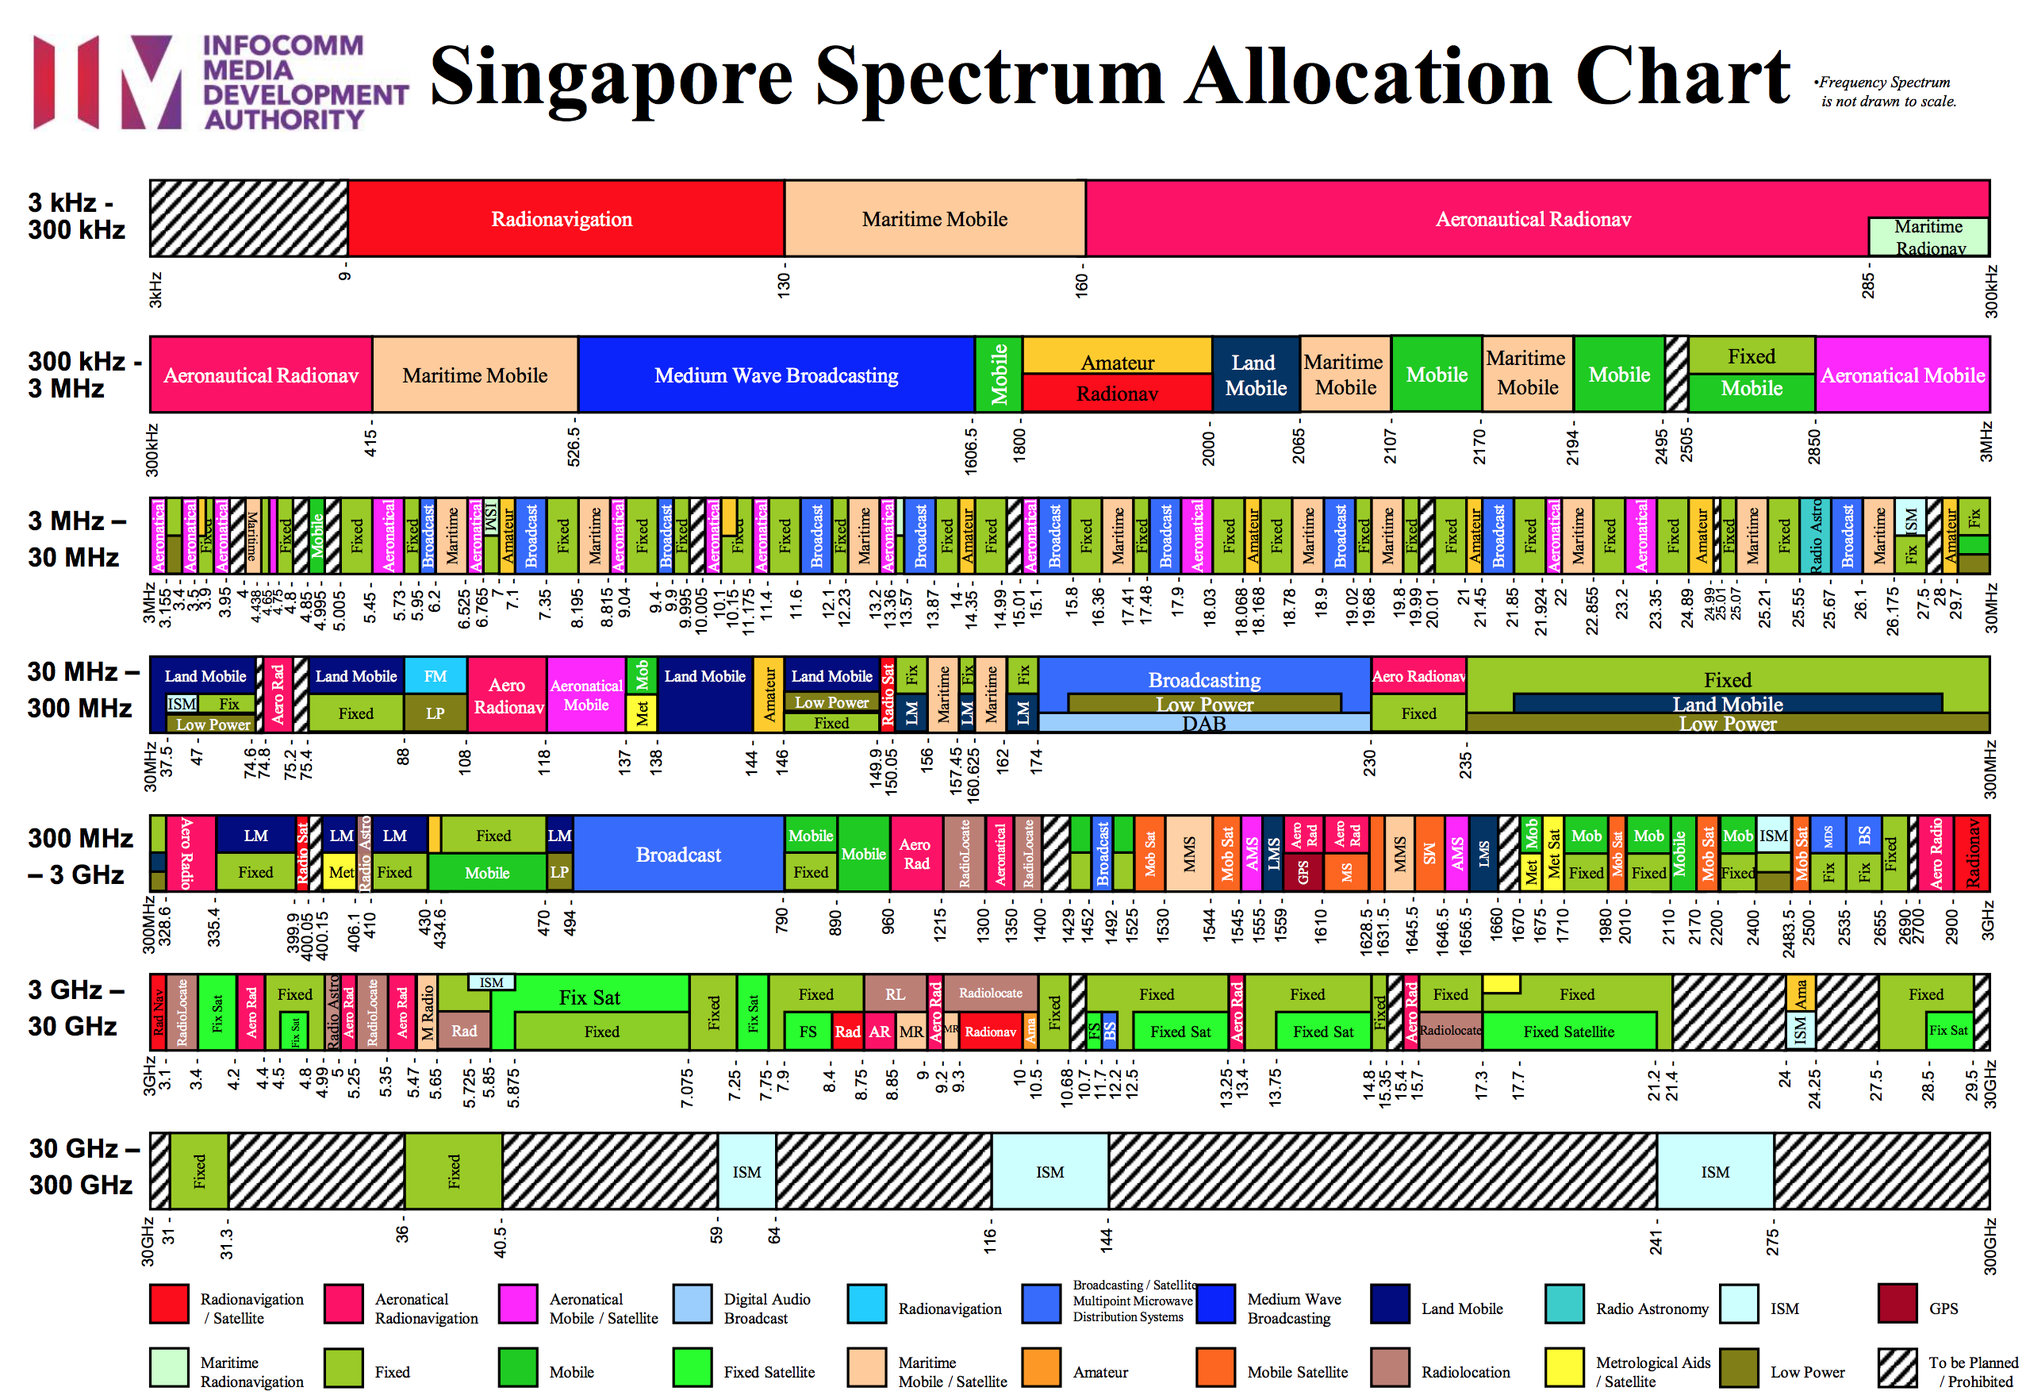
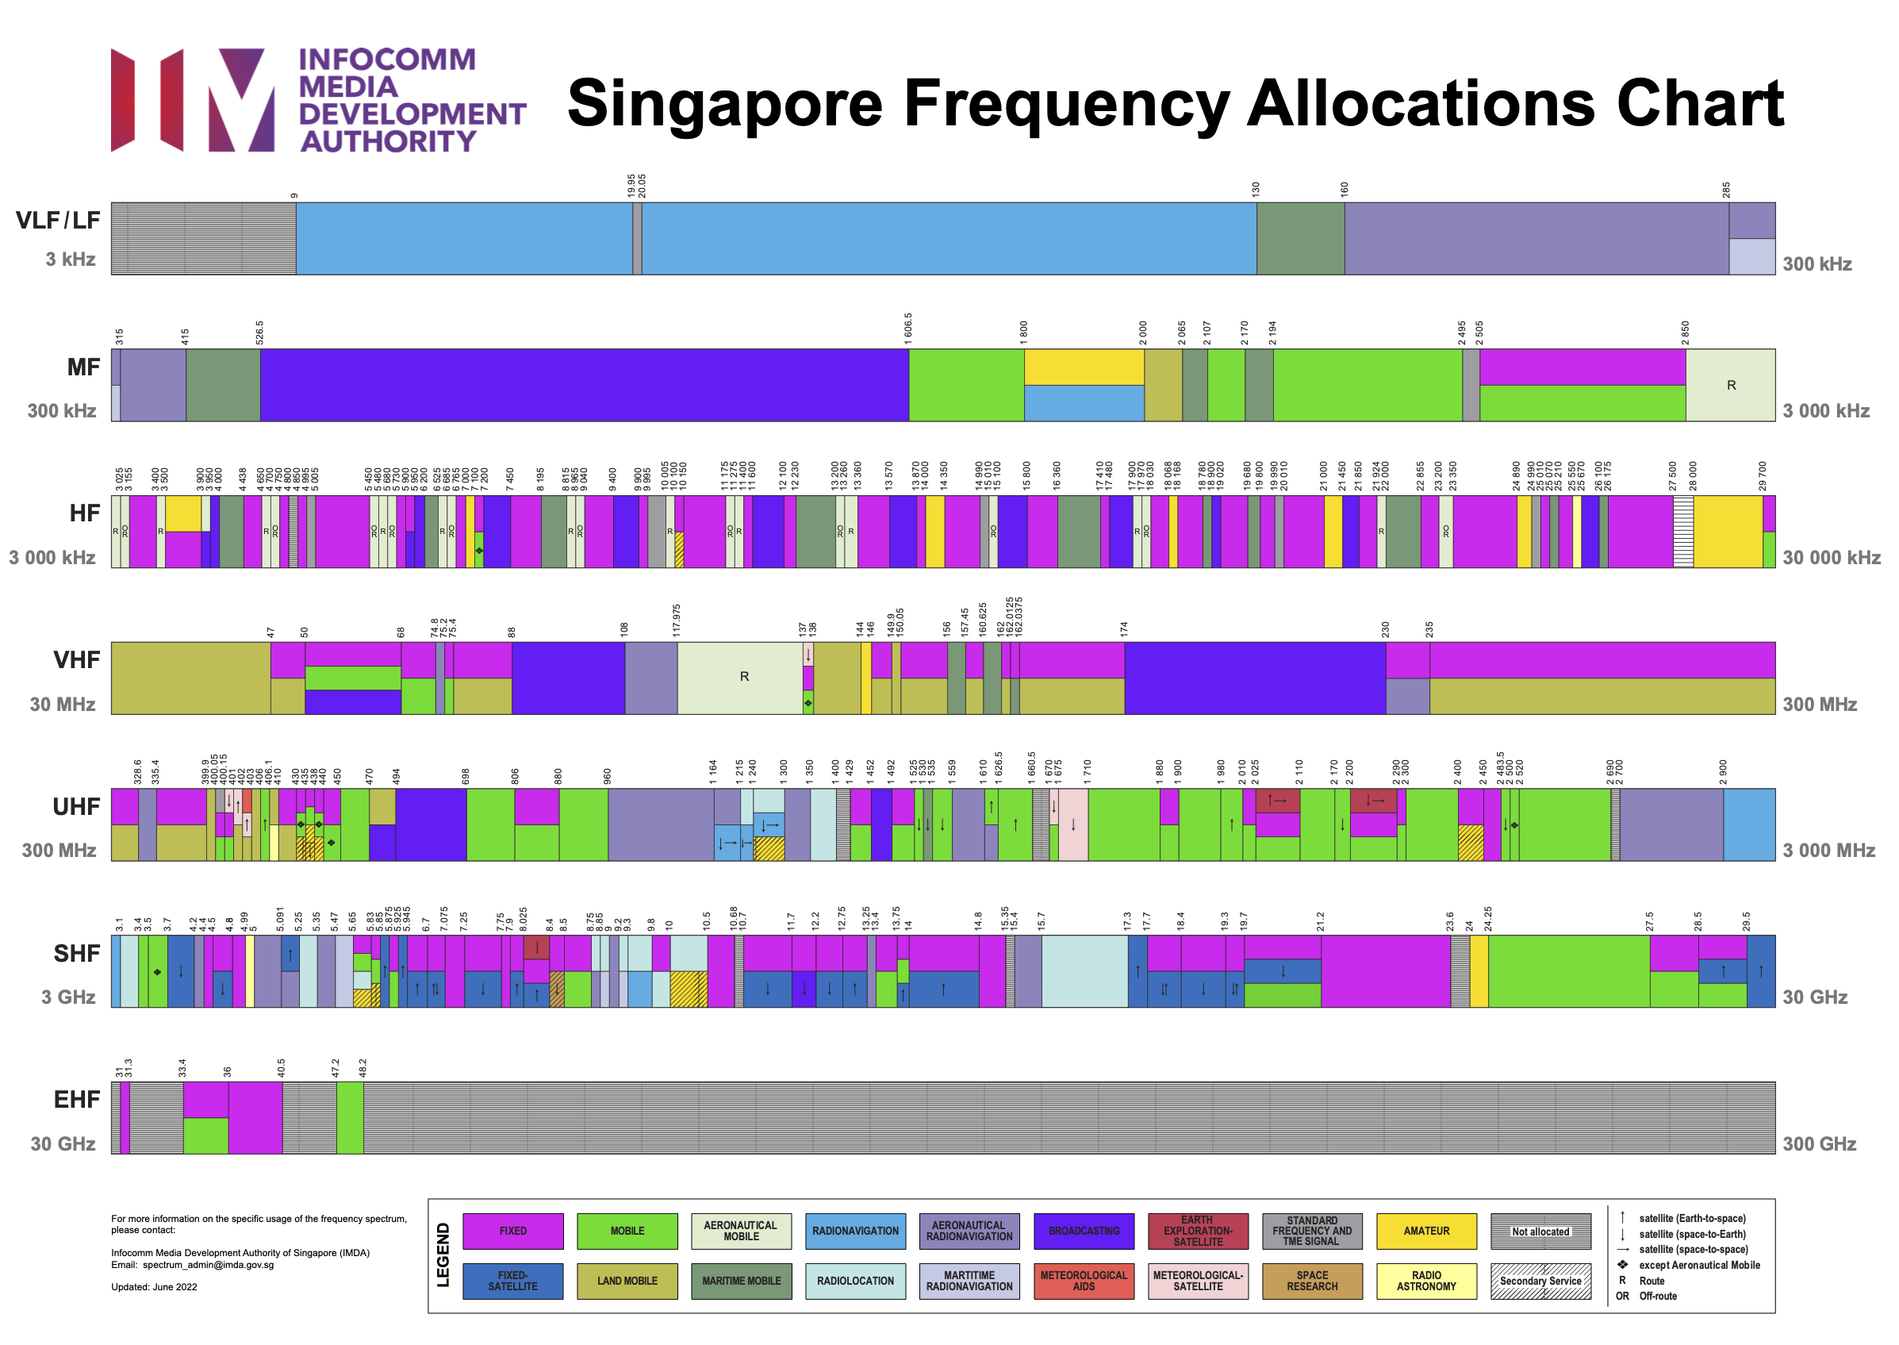
[SingaporeBands] update (#164)
* [SingaporeBands] update

* more updates

diff --git a/Radio/SingaporeBands/README.md b/Radio/SingaporeBands/README.md
@@ -9,9 +9,9 @@ Notes on official band plans for Singapore and my and personal observations on w
 Singapore is relatively progressive when it comes to radio spectrum allocation and use - for example, AM services disappeared by 2000 or so,
 DAB came and went in 2011 (rendered irrelevant by Internet services and continued popularity of FM).
 With the almost universal adoption of mobile and internet technology, the general perception is that shortwave and amateur radio are pretty much a thing of the past.
-Singapore has an [amateur radio association (SARTS)](http://www.sarts.org.sg/) - which I am not a member of (yet).
+Singapore has an [amateur radio association (SARTS)](https://www.sarts.org.sg/) - which I am not a member of (yet).
 
-So as I become more interested in RF, my first question is basic: so is there much activity, and if so, what modes and bands?
+So as I become more interested in RF, my first question is basic: is there much activity, and if so, what modes and bands?
 
 This document is going to be a work-in-progress. It comprises my notes on:
 
@@ -24,7 +24,227 @@ This document is going to be a work-in-progress. It comprises my notes on:
 The IMDA maintains allocations for amateur radio that are roughly in line with [ITU Region 3 guidelines](https://en.wikipedia.org/wiki/Amateur_radio_frequency_allocations#ITU_Region_3).
 Excluded are bands at the low and high end: 2200m, 630m, 23cm.
 
-[![imda_sg_spectrum](./assets/imda_sg_spectrum.png?raw=true)](https://www.imda.gov.sg/regulations-licensing-and-consultations/frameworks-and-policies/spectrum-management-and-coordination/frequency-allocation-and-assignment)
+Allocations were last revised in June 2022.
+
+[![imda_sg_spectrum](./assets/imda_sg_spectrum.png)](https://www.imda.gov.sg/regulations-and-licensing-listing/spectrum-management)
+
+## 9V Amateur Radio Allocations
+
+Overview and comparison of Singapore amateur allocations with US allocations:
+
+| Band                                                     | Frequency     | Range | SG Ham License            | US Ham License       |
+|----------------------------------------------------------|---------------|-------|---------------------------|----------------------|
+| [2200m](https://en.wikipedia.org/wiki/2200-meter_band)   | 135 kHz       | LF    | -                         | General, Extra       |
+| [630m](https://en.wikipedia.org/wiki/630-meter_band)     | 472 kHz       | MF    | -                         | General, Extra       |
+| [160m](https://en.wikipedia.org/wiki/160-meter_band)     | 1.8 MHz       | MF    | General                   | General, Extra       |
+| [80m](https://en.wikipedia.org/wiki/80-meter_band)       | 3.5 MHz       | HF    | General                   | Tech, General, Extra |
+| [60m](https://en.wikipedia.org/wiki/60-meter_band)       | 5.3 MHz       | HF    | -                         | General, Extra       |
+| [40m](https://en.wikipedia.org/wiki/40-meter_band)       | 7 MHz         | HF    | General                   | Tech, General, Extra |
+| [30m](https://en.wikipedia.org/wiki/WARC_bands)          | 10 MHz        | HF    | General                   | General, Extra       |
+| [20m](https://en.wikipedia.org/wiki/20-meter_band)       | 14 MHz        | HF    | General                   | General, Extra       |
+| [17m](https://en.wikipedia.org/wiki/WARC_bands)          | 18 MHz        | HF    | General                   | General, Extra       |
+| [15m](https://en.wikipedia.org/wiki/15-meter_band)       | 21 MHz        | HF    | General                   | Tech, General, Extra |
+| [12m](https://en.wikipedia.org/wiki/WARC_bands)          | 24 MHz        | HF    | General                   | Tech, General, Extra |
+| [10m](https://en.wikipedia.org/wiki/10-meter_band)       | 28 MHz        | HF    | General                   | Tech, General, Extra |
+| [6m](https://en.wikipedia.org/wiki/6-meter_band)         | 50 MHz        | VHF   | -                         | Tech, General, Extra |
+| [2m](https://en.wikipedia.org/wiki/2-meter_band)         | 144 MHz       | VHF   | General & Restricted      | Tech, General, Extra |
+| [1.25m](https://en.wikipedia.org/wiki/1.25-meter_band)   | 220 MHz       | VHF   | -                         | Tech, General, Extra |
+| [70cm](https://en.wikipedia.org/wiki/70-centimeter_band) | 430 MHz       | UHF   | General & Restricted      | Tech, General, Extra |
+| [33cm](https://en.wikipedia.org/wiki/33-centimeter_band) | 902 MHz       | UHF   | -                         | Tech, General, Extra |
+| [23cm](https://en.wikipedia.org/wiki/23-centimeter_band) | 1240 MHz      | UHF   | On application            | Tech, General, Extra |
+|                                                          | 2300 MHz      | SHF   | -                         | Tech, General, Extra |
+|                                                          | 2390 MHz      | SHF   | On application(2400-2450) | Tech, General, Extra |
+|                                                          | 3400 MHz      | SHF   | -                         | Tech, General, Extra |
+|                                                          | 5650 MHz      | SHF   | On application            | Tech, General, Extra |
+|                                                          | 10.0 GHz      | SHF   | On application            | Tech, General, Extra |
+|                                                          | 24.0 GHz      | SHF   | On application            | Tech, General, Extra |
+|                                                          | 47.0 GHz      | EHF   | -                         | Tech, General, Extra |
+|                                                          | 76.0 GHz      | EHF   | -                         | Tech, General, Extra |
+|                                                          | 122.25 GHz    | EHF   | -                         | Tech, General, Extra |
+|                                                          | 134 GHz       | EHF   | -                         | Tech, General, Extra |
+|                                                          | 241 GHz       | EHF   | -                         | Tech, General, Extra |
+|                                                          | Above 275 GHz | EHF   | -                         | Tech, General, Extra |
+
+The Singapore Restricted Class licence permits the licensee to operate only on the VHF/UHF amateur bands using phone by FM or SSB.
+
+## 9V Amateur Radio Band Plans
+
+* NB: Narrow band modes including Digital modes not exceeding 2 kHz
+* WB: Wide band modes including FM
+
+### 160m, 1.8 MHz
+
+* nighttime only band; during daylight, signals absorbed by the D-layer and the band is dead
+* after local sunrise, propagation to 1000 to 2300 miles is possible
+* signals peak at about local midnight
+* during summertime, conditions are limited due to atmospheric noise and storms
+* efficient antennas are essential
+* can be challenging because of the large sizes required for efficient antennas
+
+Conditions:
+
+* Maximum DC Input Power: 10W
+* PEP: 26.67W
+* RTTY is not allowed
+* shared with other services.
+
+![9v_160m](./assets/9v_160m.png?raw=true)
+
+### 80m, 3.5 MHz
+
+* nighttime only band but can provide some daytime action
+* distances limited to about 250 miles during the day
+* for DX, efficient antennas are essential
+
+Conditions:
+
+* Maximum DC Input Power: 300W
+* PEP: 800W
+* shared with other services.
+
+![9v_80m](./assets/9v_80m.png?raw=true)
+
+### 40m, 7 MHz
+
+* most popular QRP band
+* tends to follow ionization levels closely
+* day: distances to 500 miles
+* night:
+    * signals rise quickly after dusk
+    * recombination of F-layer means unsettled conditions 10-11pm local
+    * once F settles, transcontinental possible
+    * simple dipole suspended 25-40 feet
+    * even mediocre antennas perform well
+
+Conditions:
+
+* Maximum DC Input Power: 300W
+* PEP: 800W
+
+![9v_40m](./assets/9v_40m.png?raw=true)
+
+### 30m, 10MHz
+
+* great for QRP
+* open day and night
+* summer noise levels lower than 40m but absorption greater than 20m
+
+Conditions:
+
+* Maximum DC Input Power: 300W
+* PEP: 800W
+* allocated to amateur radio on secondary basis.
+
+![9v_30m](./assets/9v_30m.png?raw=true)
+
+### 20m, 14 MHz
+
+* lowest frequency DX band, considered among the best for DX
+* open most time to various areas of the world
+* closely follows ionization levels in upper ionosphere
+
+Conditions:
+
+* Maximum DC Input Power: 300W
+* PEP: 800W
+
+![9v_20m](./assets/9v_20m.png?raw=true)
+
+### 17m, 18 MHz
+
+* mainly daylight band
+* must be sufficient solar activity to produce band openings
+* can produce outstanding DX to most areas of the world
+
+Conditions:
+
+* Maximum DC Input Power: 300W
+* PEP: 800W
+
+![9v_17m](./assets/9v_17m.png?raw=true)
+
+### 15m, 21 MHz
+
+* mainly daylight band
+* must be sufficient solar activity to produce band openings
+* propagate primarily via reflection off of the F2 layer
+* can produce outstanding DX to most areas of the world
+
+Conditions:
+
+* Maximum DC Input Power: 300W
+* PEP: 800W
+
+![9v_15m](./assets/9v_15m.png?raw=true)
+
+### 12m, 24 MHz
+
+* daylight band
+* can produce outstanding DX during much of the solar cycle
+* band forms up several hours after sunrise
+* normal skip distance about 900 miles
+
+Conditions:
+
+* Maximum DC Input Power: 300W
+* PEP: 800W
+
+![9v_12m](./assets/9v_12m.png?raw=true)
+
+### 10m, 28 MHz
+
+* portion of the shortwave radio spectrum, HF
+* daylight band
+* can produce outstanding DX during much of the solar cycle
+* at peak solar cycle, can achieve extremely long-distance signals, refracting from the F2 layer
+* band forms up several hours after sunrise
+* normal skip distance about 900 miles
+* summertime sporadic-E openings
+
+Conditions:
+
+* Maximum DC Input Power: 300W
+* PEP: 800W
+
+![9v_10m](./assets/9v_10m.png?raw=true)
+
+### 2m, 144 MHz
+
+* portion of the VHF radio spectrum
+* predominately used for FM or digital voice communications through repeaters
+* mainly local (50 miles), but DX possible with tropospheric ducting, sporadic E and meteor scatter
+* SARTS maintains a 2m repeater, managed by 9V1AI.
+    * Repeater Tx 145.625 MHz
+    * Repeater Rx 145.025 MHz
+    * CTCSS Tone 156.7 Hz
+
+Conditions:
+
+* PEP: 25W
+Conditions:
+
+* Use of any frequency in the VHF/UHF bands shall be only with the prior written consent of the IMDA.
+* Power limit on 2 m is 25 W PEP, on 70 cm 10 W (erp).
+
+![9v_2m](./assets/9v_2m.png?raw=true)
+
+### 70cm, 430 MHz
+
+* portion of the UHF radio spectrum internationally allocated to amateur radio and amateur satellite use
+* predominately used for FM or digital voice communications through repeaters
+* overlaps with the LPD433 band used by short range devices/RC models
+
+Conditions:
+
+* Use of any frequency in the VHF/UHF bands shall be only with the prior written consent of the IMDA.
+* Power limit on 2 m is 25 W PEP, on 70 cm 10 W (erp).
+* Spot frequencies for 70 cm (UHF) are:
+    * CW 432.000 MHz,
+    * SSB/CW 432.200 MHz,
+    * RTTY/FAX 432.600 MHz,
+    * FM simplex 433.625 MHz and 433.650 MHz.
+
+![9v_70cm](./assets/9v_70cm.png?raw=true)
 
 ## Shortwave Broadcast Services
 
@@ -54,140 +274,16 @@ The following is a personal log of shortwave broadcast services I have been able
 | Radio Saudi               | 17895           | 16m        | Arabic   | Riyadh 500 kw            | 02:55 - 08:00                 | 2019-03-23 Wed 15:34 UTC+8 |
 |                           |                 |            |          |                          |                               |                            |
 
-## 9V Amateur Radio Band Plans
-
-* NB: Narrow band modes including Digital modes not exceeding 2 kHz
-* WB: Wide band modes including FM
-
-| band                                                     | frequency   | range |
-|----------------------------------------------------------|-------------|-------|
-| [70cm](https://en.wikipedia.org/wiki/70-centimeter_band) | 430 MHz     | UHF   |
-| [2m](https://en.wikipedia.org/wiki/2-meter_band)         | 144 MHz     | VHF   |
-| [10m](https://en.wikipedia.org/wiki/10-meter_band)       | 28 MHz      | HF    |
-| [12m](https://en.wikipedia.org/wiki/WARC_bands)          | 24 MHz      | HF    |
-| [15m](https://en.wikipedia.org/wiki/15-meter_band)       | 21 MHz      | HF    |
-| [17m](https://en.wikipedia.org/wiki/WARC_bands)          | 18 MHz      | HF    |
-| [20m](https://en.wikipedia.org/wiki/20-meter_band)       | 14 MHz      | HF    |
-| [30m](https://en.wikipedia.org/wiki/WARC_bands)          | 10 MHz      | HF    |
-| [40m](https://en.wikipedia.org/wiki/40-meter_band)       | 7 MHz       | HF    |
-| [80m](https://en.wikipedia.org/wiki/80-meter_band)       | 3.5 MHz     | HF    |
-| [160m](https://en.wikipedia.org/wiki/160-meter_band)     | 1.8 MHz     | MF    |
-
-### 160m, 1.8 MHz
-
-* nighttime only band; during daylight, signals absorbed by the D-layer and the band is dead
-* after local sunrise, propagation to 1000 to 2300 miles is possible
-* signals peak at about local midnight
-* during summertime, conditions are limited due to atmospheric noise and storms
-* efficient antennas are essential
-* can be challenging because of the large sizes required for efficient antennas
-
-![9v_160m](./assets/9v_160m.png?raw=true)
-
-### 80m, 3.5 MHz
-
-* nighttime only band but can provide some daytime action
-* distances limited to about 250 miles during the day
-* for DX, efficient antennas are essential
-
-![9v_80m](./assets/9v_80m.png?raw=true)
-
-### 40m, 7 MHz
-
-* most popular QRP band
-* tends to follow ionization levels closely
-* day: distances to 500 miles
-* night:
-    * signals rise quickly after dusk
-    * recombination of F-layer means unsettled conditions 10-11pm local
-    * once F settles, transcontinental possible
-    * simple dipole suspended 25-40 feet
-    * even mediocre antennas perform well
-
-![9v_40m](./assets/9v_40m.png?raw=true)
-
-### 30m, 10MHz
-
-* great for QRP
-* open day and night
-* summer noise levels lower than 40m but absorption greater than 20m
-
-![9v_30m](./assets/9v_30m.png?raw=true)
-
-### 20m, 14 MHz
-
-* lowest frequency DX band, considered among the best for DX
-* open most time to various areas of the world
-* closely follows ionization levels in upper ionosphere
-
-![9v_20m](./assets/9v_20m.png?raw=true)
-
-### 17m, 18 MHz
-
-* mainly daylight band
-* must be sufficient solar activity to produce band openings
-* can produce outstanding DX to most areas of the world
-
-![9v_17m](./assets/9v_17m.png?raw=true)
-
-### 15m, 21 MHz
-
-* mainly daylight band
-* must be sufficient solar activity to produce band openings
-* propagate primarily via reflection off of the F2 layer
-* can produce outstanding DX to most areas of the world
-
-![9v_15m](./assets/9v_15m.png?raw=true)
-
-### 12m, 24 MHz
-
-* daylight band
-* can produce outstanding DX during much of the solar cycle
-* band forms up several hours after sunrise
-* normal skip distance about 900 miles
-
-![9v_12m](./assets/9v_12m.png?raw=true)
-
-### 10m, 28 MHz
-
-* portion of the shortwave radio spectrum, HF
-* daylight band
-* can produce outstanding DX during much of the solar cycle
-* at peak solar cycle, can achieve extremely long-distance signals, refracting from the F2 layer
-* band forms up several hours after sunrise
-* normal skip distance about 900 miles
-* summertime sporadic-E openings
-
-![9v_10m](./assets/9v_10m.png?raw=true)
-
-### 2m, 144 MHz
-
-* portion of the VHF radio spectrum
-* predominately used for FM or digital voice communications through repeaters
-* mainly local (50 miles), but DX possible with tropospheric ducting, sporadic E and meteor scatter
-* SARTS maintains a 2m repeater, managed by 9V1AI.
-    * Repeater Tx 145.625 MHz
-    * Repeater Rx 145.025 MHz
-    * CTCSS Tone 156.7 Hz
-
-![9v_2m](./assets/9v_2m.png?raw=true)
-
-### 70cm, 430 MHz
-
-* portion of the UHF radio spectrum internationally allocated to amateur radio and amateur satellite use
-* predominately used for FM or digital voice communications through repeaters
-* overlaps with the LPD433 band used by short range devices/RC models
-
-![9v_70cm](./assets/9v_70cm.png?raw=true)
-
 ## Credits and References
 
-* [IMDA Frequency Allocation & Assignment](https://www.imda.gov.sg/regulations-licensing-and-consultations/frameworks-and-policies/spectrum-management-and-coordination/frequency-allocation-and-assignment)
-* [Info-communications Media Development Authority (IMDA)](http://www.imda.gov.sg/).
+* [Singapore Amateur Radio Transmitting Society (SARTS)](https://www.sarts.org.sg/)
+    * [9V Band Plan](https://www.sarts.org.sg/bands.html)
+* [IMDA Frequency Allocation & Assignment](https://www.imda.gov.sg/regulations-and-licensing-listing/spectrum-management)
+* [Info-communications Media Development Authority (IMDA)](https://www.imda.gov.sg/).
 * [List of radio stations in Singapore](https://en.wikipedia.org/wiki/List_of_radio_stations_in_Singapore) - wikipedia
 * [Broadcasting in Singapore](https://en.wikipedia.org/wiki/Broadcasting_in_Singapore)
 * [Broadcast Radio in Singapore](https://www.radio-singapore.com/) - listen live
-* [Radio Stations in Singapore](http://www.asiawaves.net/singapore-radio.htm)
-* [BBC World Service Global Short Wave Frequencies](http://www.bbc.co.uk/programmes/articles/2x9tqt6mc05vB2S37j8MWMJ/global-short-wave-frequencies)
-* [Shortwave Schedules around the world](http://shortwaveschedule.com/) - very reliable reference for scheduled shortwave broadcasts
-* [hfradio shortwave](http://hfradio.org/swbc/) - another resource for scheduled services; not particularly reliable it seems
+* [Radio Stations in Singapore](https://www.asiawaves.net/singapore-radio.htm)
+* [BBC World Service Global Short Wave Frequencies](https://www.bbc.co.uk/programmes/articles/2x9tqt6mc05vB2S37j8MWMJ/global-short-wave-frequencies)
+* [Shortwave Schedules around the world](https://shortwaveschedule.com/) - very reliable reference for scheduled shortwave broadcasts
+* [hfradio shortwave](https://hfradio.org/swbc/) - another resource for scheduled services; not particularly reliable it seems
